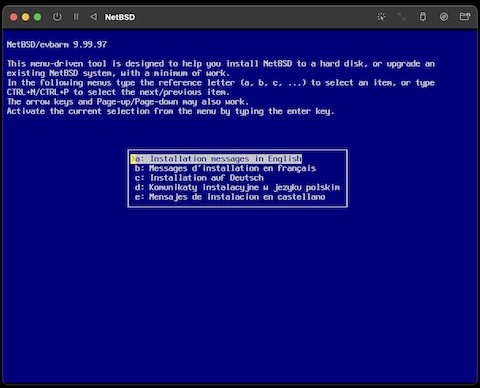
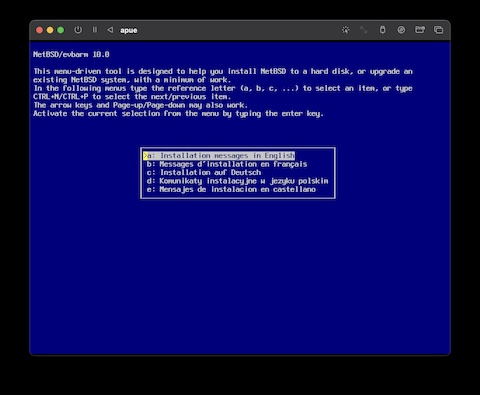
update for NetBSD 10.0

diff --git a/html/utm/index.html b/html/utm/index.html
@@ -49,9 +49,9 @@ allowfullscreen></iframe>
 <p>First, install UTM from <a
 href="https://mac.getutm.app/">https://mac.getutm.app/</a>.</p>
 
-<p>Next, download the latest "-current" ISO for NetBSD/evbarm from
-<a href="https://nycdn.netbsd.org/pub/NetBSD-daily/HEAD/latest/images/NetBSD-9.99.97-evbarm-aarch64.iso">https://nycdn.netbsd.org/pub/NetBSD-daily/HEAD/latest/images/NetBSD-9.99.97-evbarm-aarch64.iso</a>
-and save it as <tt>~/Desktop/NetBSD-9.99.97-evbarm-aarch64.iso</tt>.</p>
+<p>Next, download the latest ISO for NetBSD/evbarm from
+<a href="https://ftp.netbsd.org/pub/NetBSD/images/10.0/NetBSD-10.0-evbarm-aarch64.iso">https://ftp.netbsd.org/pub/NetBSD/images/10.0/NetBSD-10.0-evbarm-aarch64.iso</a>
+and save it as <tt>~/Desktop/NetBSD-10.0-evbarm-aarch64.iso</tt>.</p>
 
 <p>Start UTM and select '<em>Create a New Virtual Machine</em>':</p>
 <p><img src="utm-fresh.jpg" alt="Screenshot: UTM at first start"></p>
@@ -64,7 +64,7 @@ then '<em>Other</em>' in the OS selection:</p>
 
 <p>On the next screen, select '<em>Boot ISO
 Image</em>' and browse to the saved file
-<tt>~/Desktop/NetBSD-9.99.97-evbarm-aarch64.iso</tt> and
+<tt>~/Desktop/NetBSD-10.0-evbarm-aarch64.iso</tt> and
 '<em>continue</em>':</p>
 
 <p><img src="utm-iso.jpg" alt="Screenshot: UTM Load ISO file"></p>
@@ -75,6 +75,7 @@ concerned, 16 GB would be plenty.</p>
 
 <p>Let's name the VM "apue".</p>
 
+<!--
 <p>Once the VM has been created, select the 'Settings'
 menu from the upper right "sliders" menu, then select
 '<em>Network</em>' on the left and change the '<em>Network
@@ -84,11 +85,12 @@ Mode</em>' to "<em>Bridged (Advanced)</em>":</p>
 <img src="utm-menu.jpg" alt="Screenshot: UTM VM
 Menu">&nbsp;
 <img src="utm-network.jpg" alt="Screenshot: UTM Network Preferences"></p>
+-->
 
 <h4>Installing NetBSD</h4>
 
 <p>Start the VM.  You should see the '<em>Welcome to
-the NetBSD-9.99.97 Installation CD</em>' screen, where
+the NetBSD-10.0 Installation CD</em>' screen, where
 you can hit return or wait for the timeout after which
 the system will boot into the NetBSD installer, where
 we'll follow a very <a
@@ -149,7 +151,6 @@ hurt.</p>
 
 <p><blockquote><pre>'g: Enable sshd'
 'h: Enable ntpd'
-'i: Run ntpdate at boot'
 'o: Add a user'</pre></blockquote></p>
 
 <p><em>Note</em>: it is <em>required</em> for this
@@ -203,7 +204,7 @@ connectivity, then power it down again:</p>
 login: jschauma
 Password:
 
-NetBSD 9.99.97 (GENERIC) #0: Wed May 25 15:52:25 UTC 2022
+NetBSD 10.0 (GENERIC64) #0: Thu Mar 28 08:33:33 UTC 2024
 
 Welcome to NetBSD!
 
@@ -211,24 +212,26 @@ apue$ ifconfig -a
 vioif0: flags=0x8843&lt;UP,BROADCAST,RUNNING,SIMPLEX,MULTICAST&gt; mtu 1500
 	ec_capabilities=0x1&lt;VLAN_MTU&gt;
 	ec_enabled=0
-	address: e2:47:b0:00:bd:cf
+	address: fe:d7:b1:b2:f7:55
 	status: active
-	inet6 fe80::e047:b0ff:fe00:bdcf%vioif0/64 flags 0 scopeid 0x1
-	inet 172.16.1.25/24 broadcast 172.16.1.255 flags 0
+	inet6 fe80::fcd7:b1ff:feb2:f755%vioif0/64 flags 0 scopeid 0x1
+	inet6 fdc2:a538:d647:8432:3641:423b:87e5:c4cf/64 flags 0x40&lt;AUTOCONF&gt;
+	inet 192.168.64.12/24 broadcast 192.168.64.255 flags 0
 lo0: flags=0x8049&lt;UP,LOOPBACK,RUNNING,MULTICAST&gt; mtu 33624
 	status: active
-	inet6 ::1/128 flags 0x20<NODAD>
+	inet6 ::1/128 flags 0x20&lt;NODAD&gt;
 	inet6 fe80::1%lo0/64 flags 0 scopeid 0x2
 	inet 127.0.0.1/8 flags 0
 apue$ su root -c "/sbin/shutdown -p now"</pre></blockquote></p>
 
+<!--
 <p>Note: it appears that as of 2022-06-03, UTM / QEMU
 does not correctly configure IPv6 networking: in
 bridged mode, if your local network supports IPv6,
 your VM will get an IPv6 address, but routing IPv6
 traffic from the VM to the internet does not appear to
 work.  In shared or emulated VLAN mode, the VM does
-not appear to get a DHCPv6 lease at all.</p>
+not appear to get a DHCPv6 lease at all.--></p>
 
 <h3>Using your VM</h3>
 <h4>Starting headlessly</h4>
@@ -239,14 +242,64 @@ open the app and click on things just to start our
 VM.</p>
 
 <p>To avoid this, we can use <tt>qemu</tt> directly to
-start the VM.  However, without UTM you cannot use
-bridged networking (easily).  Using normal user
-networking works fine for the most part, but means
-ICMP won't work in your VM.  If that doesn't bother
-you, then you can use e.g., <a
-href="start-apue.sh">this script</a> to start your
-VM.</p>
+start the VM using a <a
+href="start-apue.sh">simple script</a>.  With this
+approach, we are also port-forwarding SSH traffic to the
+VM via port 2222 on <code>localhost</code>:</p>
 
+<p><blockquote><pre>$ cat &gt; ~/bin/start-apue &lt;&lt;EOF
+#! /bin/sh
+#
+# Helper script to start a NetBSD VM using qemu.
+#
+# See https://stevens.netmeister.org/631/utm/ for more information.
+
+which timeout &gt;/dev/null 2&gt;&amp;1
+if [ $? -gt 0 ]; then
+	# e.g., macOS; we assume Perl is present
+	timeout() { perl -e 'alarm shift; exec @ARGV' "$@"; }
+fi
+
+echo "=&gt; Starting VM..."
+qcow=$(echo /Users/${USER}/Library/Containers/com.utmapp.UTM/Data/Documents/apue.utm/Data/*.qcow2)
+
+qemu-system-aarch64 \
+	-L /Applications/UTM.app/Contents/Resources/qemu  \
+	-smp cpus=4,sockets=1,cores=4,threads=1           \
+	-accel hvf -accel tcg,tb-size=1024                \
+	-m 2048                                           \
+	-cpu host                                         \
+	-M virt,highmem=off                               \
+	-drive file=/Applications/UTM.app/Contents/Resources/qemu/edk2-aarch64-code.fd,if=pflash,format=raw,readonly=on \
+	-drive file=${qcow},format=qcow2                  \
+	-nographic                                        \
+	-serial tcp::4444,server,telnet,nowait            \
+	-net user,hostfwd=tcp::2222-:22 -net nic &gt;/dev/null 2&gt;&amp;1 &amp;
+
+/bin/echo -n "==&gt; Waiting for VM to boot..."
+n=1
+while [ 1 ]; do
+	timeout 2 /bin/sh -c "echo | nc localhost 2222 &gt;/dev/null 2&gt;&amp;1" &gt;/dev/null 2&gt;&amp;1
+	if [ $? -eq 0 ]; then
+		# we still need a few more seconds
+		/bin/echo -n "."
+		sleep 3
+		echo;
+		echo "=&gt; VM up and ready to log in."
+		break
+	fi
+	sleep 1
+	/bin/echo -n "."
+	n=$(( n + 1 ))
+	if [ $n -gt 60 ]; then
+		echo "VM still not up after 60 seconds, bailing out." &gt;&amp;2
+		break
+	fi
+done
+EOF
+$ </pre></blockquote></p>
+
+<!--
 <h4>Minimize GUI Work with UTM</h4>
 
 <p>Alternatively, or if we need fully bridged
@@ -319,6 +372,7 @@ ps wwaux | awk '/UT[M].app/ { print $2 }' | xargs kill
 EOF
 $ chmod a+rx ~/bin/stop-apue
 $ </pre></blockquote></p>
+-->
 
 <h3>Set up your VM for this class</h3>
 
